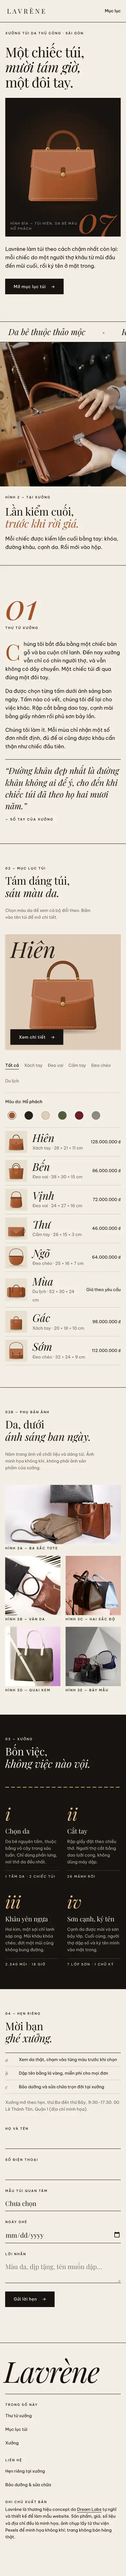
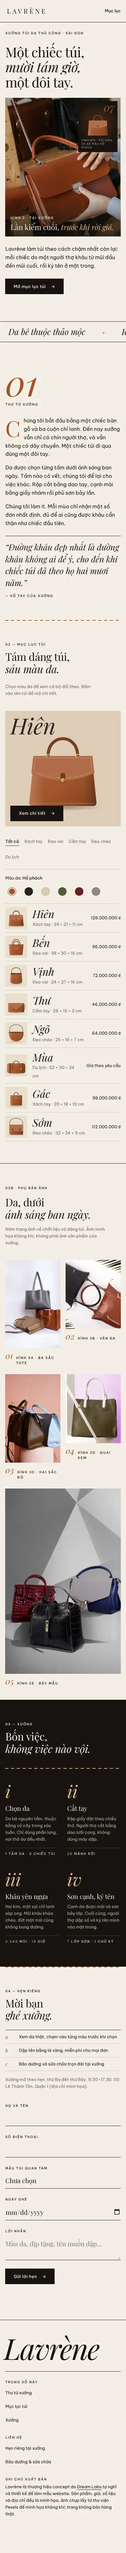
Demo Lavrène: hero rèm lật trang, phụ bản ảnh cuộn ngang, đường khâu tự vẽ
Claude-Session: https://claude.ai/code/session_012QLWn7rvRysGvRwdv6upwG

diff --git a/demos/lux-lavrene.html b/demos/lux-lavrene.html
@@ -43,14 +43,6 @@ input,select,textarea{font:inherit;color:inherit;border-radius:0}
 .qv-x{position:absolute;z-index:3;width:42px;height:42px;display:grid;place-items:center;font-size:26px;line-height:1}
 .toast{position:fixed;left:50%;bottom:26px;z-index:130;transform:translate(-50%,26px);opacity:0;pointer-events:none;transition:opacity 424ms var(--ease),transform 424ms var(--ease);max-width:calc(100vw - 32px);padding:10px 26px;font-size:13px;text-align:center}
 .toast.on{opacity:1;transform:translate(-50%,0)}
-.ph{position:relative;overflow:hidden;margin:0;background:var(--bg2)}
-.ph img{display:block;width:100%;height:100%;object-fit:cover;transition:transform 1796ms var(--ease),filter 1110ms var(--ease)}
-.pe{position:relative;overflow:hidden}.pe>.ph{position:absolute;inset:0}.pe>.ph img{position:absolute;left:0;top:-9%;height:118%}
-.pg-g{display:grid;grid-template-columns:repeat(4,1fr);grid-auto-rows:clamp(160px,19vw,300px);gap:10px}
-.pg-g .ph:first-child{grid-column:span 2;grid-row:span 2}.pg-4 .ph:nth-child(2){grid-column:span 2}
-.pg-g .ph:hover img{transform:scale(1.05)}
-.pg-g figcaption{position:absolute;left:0;right:0;bottom:0;padding:26px 16px 10px;font-size:13px;line-height:1.38;pointer-events:none}
-@media(max-width:700px){.pg-g{grid-template-columns:1fr 1fr;grid-auto-rows:clamp(150px,52vw,260px);gap:6px}.pg-g .ph:first-child{grid-row:span 1}.pg-4 .ph:nth-child(2){grid-column:span 1}.pg-4 .ph:last-child{grid-column:span 2}}
 .back{position:fixed;left:16px;bottom:16px;z-index:60;min-height:42px;padding:0 16px;display:flex;align-items:center;font-size:13px;letter-spacing:.04em}
 .fm{min-height:26px;font-size:13px}
 @media (prefers-reduced-motion:reduce){.js [data-r],.js [data-r=lines] .ln>span{opacity:1!important;transform:none!important;clip-path:none!important;transition:none!important}*,*::before,*::after{animation-duration:.01ms!important;animation-delay:0s!important;animation-iteration-count:1!important;transition-duration:.01ms!important;transition-delay:0s!important;scroll-behavior:auto!important}}
@@ -90,14 +82,27 @@ h2{font-family:var(--fd);font-size:clamp(33px,5.4vw,68px);line-height:1.14;lette
 @keyframes ln{from{transform:translateY(112%)}to{transform:none}}
 .cvb{display:grid;gap:26px;max-width:26em;animation:fd 1.4s .5s var(--ease) both}
 @keyframes fd{from{opacity:0;transform:translateY(16px)}to{opacity:1;transform:none}}
-.cvr{position:relative;background:var(--ink);color:var(--bg);aspect-ratio:1/1.2;overflow:hidden;animation:wp 1.8s var(--ease) both}
+.cvr{position:relative;aspect-ratio:1/1.2;margin:0}
+.cvk{position:absolute;inset:0;overflow:hidden;background:var(--bg2)}
+.kb{position:absolute;inset:-6% 0;display:block}
+.kb img{width:100%;height:100%;object-fit:cover;object-position:50% 62%;animation:kb 3.2s cubic-bezier(.19,1,.22,1) both}
+@keyframes kb{from{transform:scale(1.18)}}
+.cvs{position:absolute;inset:0;display:flex}
+.cvs i{flex:1;margin-right:-1px;background:var(--bg);transform-origin:top;animation:cs 1.5s cubic-bezier(.77,0,.18,1) both;animation-delay:calc(var(--k)*.11s + .2s)}
+.cvs i:nth-child(2n){transform-origin:bottom}
+@keyframes cs{to{transform:scaleY(0)}}
+.cvr figcaption{position:absolute;left:0;right:0;bottom:0;padding:68px 16px 16px;color:#f3eee4;background:linear-gradient(transparent,rgba(23,19,15,.78));display:grid;gap:6px;animation:fd 1.4s 1.3s var(--ease) both}
+.cvr figcaption b{font:400 23px/1.2 var(--fd)}.cvr figcaption em{color:#e6b98d}
+.pe-n{display:none;font-size:13px;line-height:1.5;max-width:27em;opacity:.84}
+.cvc{position:absolute;z-index:2;right:10px;top:10px;width:34%}
+.cvi{position:relative;aspect-ratio:1/1.3;background:var(--ink);color:var(--bg);overflow:hidden;box-shadow:0 26px 42px -26px rgba(23,19,15,.7);animation:wp 1.5s 1.1s var(--ease) both}
 @keyframes wp{from{clip-path:inset(100% 0 0 0)}to{clip-path:inset(0)}}
-.cvp{position:absolute;inset:8% 6% 12%;display:grid;place-items:center}.cvp svg{width:100%;height:100%}
-.cvr figcaption{position:absolute;left:16px;bottom:16px;right:110px;font-size:10px;letter-spacing:.16em;text-transform:uppercase;opacity:.62}
-.cvr .num{position:absolute;right:16px;bottom:0;font:italic 400 110px/1 var(--fd);color:var(--lc);opacity:.9}
-.cvr::before{content:"";position:absolute;inset:0;background:radial-gradient(circle at 50% 46%,rgba(162,84,43,.34),transparent 62%)}
-@media(min-width:900px){.cv{padding-top:42px}.cvg{grid-template-columns:61.8fr 38.2fr;gap:0;align-items:end}.cvl{padding:0 42px 68px 0}.cvr{aspect-ratio:1/1.3;max-height:calc(100svh - 110px);width:100%;justify-self:end}}
-@media(max-width:899px){.cvr{order:2}.cvr figcaption{right:130px}.sw>span{flex-basis:100%}.cvl{display:contents}.cvl .cap{order:0}.cv h1{order:1;margin:0}.cvb{order:3;padding-bottom:42px}}
+.cvi::before{content:"";position:absolute;inset:0;background:radial-gradient(circle at 50% 42%,rgba(162,84,43,.4),transparent 62%)}
+.cvp{position:absolute;inset:20% 8% 26%}.cvp svg{width:100%;height:100%}
+.cvi span{position:absolute;left:10px;right:10px;bottom:8px;font-size:8px;line-height:1.4;letter-spacing:.14em;text-transform:uppercase;opacity:.66}
+.cvi .num{position:absolute;right:8px;top:2px;font:italic 400 33px/1 var(--fd);color:var(--lc)}
+@media(min-width:900px){.cv{padding-top:42px}.cvg{grid-template-columns:55fr 45fr;gap:0;align-items:end}.cvl{padding:0 42px 68px 0}.cvr{aspect-ratio:1/1.3;max-height:calc(100svh - 110px);width:100%;justify-self:end}.cvc{right:auto;top:auto;left:-25%;bottom:42px;width:33%}.cvi span{font-size:10px;left:16px;right:16px;bottom:12px}.cvi .num{font-size:68px;right:12px}.cvr figcaption{padding:110px 26px 26px calc(8% + 26px)}.cvr figcaption b{font-size:clamp(23px,2.1vw,33px)}.pe-n{display:block}}
+@media(max-width:899px){.cvr{order:2}.sw>span{flex-basis:100%}.cvl{display:contents}.cvl .cap{order:0}.cv h1{order:1;margin:0}.cvb{order:3;padding-bottom:42px}}
 .mq{border-block:1px solid var(--ink);overflow:hidden;white-space:nowrap;margin-top:0}
 .mq div{display:inline-block;padding:10px 0;font:italic 26px/1.618 var(--fd);animation:mq 68s linear infinite}
 .mq span{margin:0 26px}.mq span::after{content:"✕";font:400 10px var(--fb);margin-left:52px;vertical-align:middle;color:var(--acc)}
@@ -111,7 +116,6 @@ blockquote{margin:0;font:italic 26px/1.4 var(--fd);border-top:1px solid var(--in
 blockquote cite{display:block;margin-top:16px;font:500 10px var(--fb);letter-spacing:.2em;text-transform:uppercase}
 @media(min-width:900px){.stg{grid-template-columns:1fr 2.618fr 1.618fr;gap:68px}.stt{columns:2;column-gap:42px}.stt p{break-inside:avoid}blockquote{font-size:33px}}
 /* mục lục */
-.ix{border-top:1px solid var(--ink)}
 .ixh{display:flex;justify-content:space-between;align-items:end;gap:26px;flex-wrap:wrap;margin-bottom:42px}
 .ixg{display:grid;gap:26px}
 @media(min-width:900px){.ixg{grid-template-columns:38.2fr 61.8fr;gap:68px;align-items:start}}
@@ -145,18 +149,17 @@ blockquote cite{display:block;margin-top:16px;font:500 10px var(--fb);letter-spa
 /* xưởng */
 .cf{background:var(--ink);color:var(--bg)}
 .cf h2{max-width:11em}
-.stc{display:block;width:100%;height:26px;margin:42px 0;overflow:visible}
-.stc path{fill:none;stroke:#d9b98a;stroke-width:2;stroke-dasharray:10 8;stroke-linecap:round}
-.js .stc{clip-path:inset(0 100% 0 0);transition:clip-path 2.9s var(--ease)}.js .stc.in{clip-path:inset(0 -1% 0 0)}
+.cf .st{--sc:#d9b98a;margin:42px 0}
 .cfg{display:grid;gap:42px 26px;grid-template-columns:1fr 1fr}
 @media(min-width:900px){.cfg{grid-template-columns:repeat(4,1fr);gap:42px}}
 .cfi b{font:italic 400 68px/1 var(--fd);color:#d9b98a;display:block}
 .cfi h3{font:400 26px/1.14 var(--fd);margin:16px 0 10px}
 .cfi p{font-size:13px;opacity:.72}
+.cfi span i{font-style:normal;color:#d9b98a}
 .cfi span{display:block;margin-top:16px;padding-top:10px;border-top:1px solid rgba(243,238,228,.2);font-size:10px;letter-spacing:.2em;text-transform:uppercase}
 @media(max-width:520px){.cfi b{font-size:53px}.cfi h3{font-size:20px}}
 /* hẹn riêng */
-.bk{display:grid;gap:42px}
+.bk{display:grid;gap:42px;position:relative}
 @media(min-width:900px){.bk{grid-template-columns:38.2fr 61.8fr;gap:110px}}
 .pm{margin-top:26px;border-top:1px solid var(--ink)}
 .pm li{display:grid;grid-template-columns:42px 1fr;padding:10px 0;border-bottom:1px solid var(--line);font-size:13px}
@@ -197,22 +200,34 @@ footer{border-top:1px solid var(--ink);padding:42px 0 110px;overflow:hidden}
 .toast{background:var(--ink);color:var(--bg)}
 .back{background:var(--bg);box-shadow:inset 0 0 0 1px var(--ink)}
 /*PH-CSS*/
-.pe{display:grid;grid-template-columns:1fr;border-bottom:1px solid var(--ink)}
-.pe>.ph{position:relative;inset:auto;aspect-ratio:1/1.14;max-height:none}
-.pe>.ph img{filter:sepia(.1) saturate(.86) contrast(1.03)}
-.pe-t{padding:26px max(16px,4.2vw) 42px}
-.pe-cap{display:grid;gap:16px}
-.pe-cap b{font:400 clamp(33px,4.6vw,68px)/1.14 var(--fd);letter-spacing:-.01em}.pe-cap b em{font-style:italic;color:var(--acc)}
-.pe-n{max-width:24em}
-@media(min-width:900px){.pe{grid-template-columns:61.8fr 38.2fr;min-height:calc(100svh - 68px)}.pe>.ph{aspect-ratio:auto;border-right:1px solid var(--ink)}.pe-t{align-self:end;padding:68px 42px}}
-.pg{border-top:1px solid var(--ink)}
-.pg-h{display:flex;justify-content:space-between;align-items:end;gap:26px;flex-wrap:wrap;margin-bottom:42px}.pg-h>p{max-width:22em;font-size:13px;color:var(--mut)}
-.pg-g{gap:16px}
-.pg-g .ph{background:var(--bg2);overflow:visible;display:grid;grid-template-rows:1fr auto}
-.pg-g .ph img{min-height:0;filter:sepia(.08) saturate(.84) contrast(1.02)}
-.pg-g .ph:hover img{transform:none;filter:none}
-.pg-g figcaption{position:static;padding:6px 0 0;background:var(--bg);font-size:10px;letter-spacing:.2em;text-transform:uppercase;font-weight:500}
-.pg-g .ph:first-child img{object-position:50% 70%}
+.st{display:block;height:2px;background:repeating-linear-gradient(90deg,var(--sc,var(--acc)) 0 10px,transparent 10px 18px)}
+.st.v{display:none}
+.sec{position:relative}.sec>.st{position:absolute;top:0;left:max(16px,4.2vw);right:max(16px,4.2vw)}
+.pg{border-top:1px solid var(--ink);position:relative}
+.pgs{position:relative;overflow:hidden;padding:68px 0 42px}
+.pgw{position:absolute;left:0;top:50%;margin-top:-.62em;white-space:nowrap;font:italic 400 min(30vh,24vw)/1.2 var(--fd);color:var(--bg2);pointer-events:none;will-change:transform}
+.pgw span{margin-right:.5em}.pgw span:nth-child(2){color:transparent;-webkit-text-stroke:1px var(--acc)}
+.pgt{position:relative;display:flex;align-items:center;gap:7vw;padding:0 max(16px,4.2vw);overflow-x:auto;scroll-snap-type:x mandatory;scrollbar-width:none}
+.pgt::-webkit-scrollbar{display:none}
+.pgt>*{flex:none;scroll-snap-align:center;margin:0}
+.pgx{position:relative}
+.pgi{display:grid;gap:16px;padding:0 max(16px,4.2vw) 42px}.pgt .pgi{width:min(80vw,36em);padding:0}.pgi>p:last-child{font-size:13px;color:var(--mut);max-width:24em}
+.pk{display:block;height:var(--h,104vw);aspect-ratio:5/8;overflow:hidden;background:var(--bg2)}
+.sq .pk{aspect-ratio:4/5;--h:90vw}
+.pk img{width:124%;max-width:none;margin-left:-12%;height:100%;object-fit:cover;filter:grayscale(1) sepia(.42) contrast(1.04);transition:filter 1110ms var(--ease),scale 1796ms var(--ease)}
+.ph.on img,.ph:hover img{filter:none}
+@media(hover:hover){.ph:hover img{scale:1.05!important}}
+.pgt figcaption{display:flex;gap:10px;align-items:baseline;padding-top:10px;font-size:10px;letter-spacing:.2em;text-transform:uppercase;font-weight:500}
+.pgt figcaption b{font:italic 400 26px/1 var(--fd);color:var(--acc);letter-spacing:0}
+.pgc{position:relative;display:flex;align-items:center;gap:16px;padding:26px max(16px,4.2vw) 0;font-size:10px;letter-spacing:.2em;font-weight:500}
+.pgc b{font:italic 400 26px/1 var(--fd);color:var(--acc);letter-spacing:0;min-width:1.3em}
+.pgl{flex:1;clip-path:inset(0 96% 0 0)}
+@media(min-width:900px){.st.v{display:block;position:absolute;top:0;bottom:0;left:calc((100% - 110px)*.382 + 54px);width:2px;height:auto;background:repeating-linear-gradient(var(--acc) 0 10px,transparent 10px 18px)}
+.pk{--h:68svh}.sq .pk{--h:50svh}.pgt .ph:nth-of-type(2){align-self:flex-start}.pgt .ph:nth-of-type(3){align-self:flex-end}.pgt .ph:nth-of-type(3) .pk{--h:58svh}.pgt .ph:nth-of-type(4) .pk{--h:54svh}
+.hz .pgs{position:sticky;top:68px;height:calc(100svh - 68px);padding:42px 0 26px;display:flex;flex-direction:column}
+.hz .pgx{flex:1;min-height:0}.hz .pgt{height:100%;width:max-content;overflow:visible;padding-right:12vw;will-change:transform}.hz .pgc{padding-left:150px}}
+@media (prefers-reduced-motion:reduce){.pgw,.pgc{display:none}.pgt{display:grid;grid-template-columns:1fr 1fr;gap:26px 16px;overflow:visible;align-items:start}.pgt .ph{align-self:auto!important}.pgt .ph:last-child{grid-column:1/-1}.pk{height:auto!important;width:100%}.pk img{filter:none}}
+@media (prefers-reduced-motion:reduce) and (min-width:900px){.pgt{grid-template-columns:repeat(5,1fr)}.pgt .ph:last-child{grid-column:auto}}
 /*/PH-CSS*/
 </style>
 </head>
@@ -232,15 +247,14 @@ footer{border-top:1px solid var(--ink);padding:42px 0 110px;overflow:hidden}
  <div class="cvl"><p class="cap">Xưởng túi da thủ công · Sài Gòn</p>
   <h1><span class="ln"><span>Một chiếc túi,</span></span><span class="ln"><span><em>mười tám giờ,</em></span></span><span class="ln"><span>một đôi tay.</span></span></h1>
   <div class="cvb"><p>Lavrène làm túi theo cách chậm nhất còn lại: mỗi chiếc do một người thợ khâu từ mũi đầu đến mũi cuối, rồi ký tên ở mặt trong.</p><div><a class="bt" href="#muc-luc">Mở mục lục túi <i>→</i></a></div></div></div>
- <figure class="cvr"><div class="cvp" id="cvp" data-px=".05"></div><figcaption>Hình bìa — Túi Hiên, da bê màu Hổ phách</figcaption><b class="num" aria-hidden="true">07</b></figure>
+ <figure class="cvr"><div class="cvk"><span class="kb" data-px=".05"><img src="../img/photo/tui-xach-6650009.webp" width="1066" height="1600" alt="Đôi tay đặt một chiếc túi da màu nâu bò lên giá gỗ, phía sau là những chiếc cặp da" decoding="async" fetchpriority="high"></span><span class="cvs" aria-hidden="true"><i style="--k:0"></i><i style="--k:1"></i><i style="--k:2"></i><i style="--k:3"></i><i style="--k:4"></i></span></div>
+  <figcaption><span class="cap">Hình 2 · Tại xưởng</span><b>Lần kiểm cuối, <em>trước khi rời giá.</em></b><span class="pe-n">Mỗi chiếc được kiểm lần cuối bằng tay: khóa, đường khâu, cạnh da. Rồi mới vào hộp.</span></figcaption>
+  <div class="cvc" data-px="-.07"><div class="cvi"><div class="cvp" id="cvp"></div><span>Hình bìa · Túi Hiên, da bê màu Hổ phách</span><b class="num" aria-hidden="true">07</b></div></div></figure>
 </div>
 <div class="mq" aria-hidden="true" style="margin-top:42px"><div><span>Da bê thuộc thảo mộc</span><span>Khâu yên ngựa hai kim</span><span>Sơn cạnh bảy lớp</span><span>Đánh số từng chiếc</span><span>Da bê thuộc thảo mộc</span><span>Khâu yên ngựa hai kim</span><span>Sơn cạnh bảy lớp</span><span>Đánh số từng chiếc</span></div></div>
 </section>
 
 
-<!--PH-ED-->
-<section class="pe" aria-label="Ảnh tại xưởng Lavrène"><figure class="ph" data-r="mask"><img src="../img/photo/tui-xach-6650009.webp" width="1066" height="1600" alt="Đôi tay đặt một chiếc túi da màu nâu bò lên giá gỗ, phía sau là những chiếc cặp da" decoding="async" loading="lazy" data-px=".12"></figure><div class="pe-t w"><div class="pe-cap" data-r><span class="cap">Hình 2 — Tại xưởng</span><b>Lần kiểm cuối,<br><em>trước khi rời giá.</em></b><span class="pe-n">Mỗi chiếc được kiểm lần cuối bằng tay: khóa, đường khâu, cạnh da. Rồi mới vào hộp.</span></div></div></section>
-<!--/PH-ED-->
 
 <section class="sec" id="thu"><div class="w stg">
  <div class="stn" data-r><b>01</b><span class="cap">Thư từ xưởng</span></div>
@@ -250,7 +264,7 @@ footer{border-top:1px solid var(--ink);padding:42px 0 110px;overflow:hidden}
  <blockquote data-r="wipe" style="--i:2">“Đường khâu đẹp nhất là đường khâu không ai để ý, cho đến khi chiếc túi đã theo họ hai mươi năm.”<cite>— Sổ tay của xưởng</cite></blockquote>
 </div></section>
 
-<section class="sec ix" id="muc-luc"><div class="w">
+<section class="sec ix" id="muc-luc"><i class="st" data-st></i><div class="w">
  <div class="ixh"><div><p class="cap" data-r>02 — Mục lục túi</p><h2 data-r="lines" style="margin-top:10px"><span class="ln"><span>Tám dáng túi,</span></span><span class="ln" style="--j:1"><span><em>sáu màu da.</em></span></span></h2></div>
   <p data-r style="max-width:22em;font-size:13px;color:var(--mut)">Chọn màu da để xem cả bộ đổi theo. Bấm vào tên túi để mở chi tiết.</p></div>
  <div class="ixg">
@@ -264,22 +278,25 @@ footer{border-top:1px solid var(--ink);padding:42px 0 110px;overflow:hidden}
 
 
 <!--PH-LB-->
-<section class="sec pg" id="lookbook"><div class="w"><div class="pg-h"><div><p class="cap" data-r>02b — Phụ bản ảnh</p><h2 data-r="lines" style="margin-top:10px"><span class="ln"><span>Da, dưới</span></span><span class="ln" style="--j:1"><span><em>ánh sáng ban ngày.</em></span></span></h2></div><p data-r>Năm trang ảnh về chất liệu và dáng túi. Ảnh minh họa không khí, không phải ảnh sản phẩm của xưởng.</p></div><div class="pg-g pg-5"><figure class="ph" data-r="mask" style="--i:0"><img src="../img/photo/tui-xach-22434775.webp" width="1132" height="1600" alt="Ba chiếc túi tote da vân cá sấu màu xám, be và nâu đặt chồng lên nhau trên nền trắng" decoding="async" loading="lazy"><figcaption>Hình 3a — Ba sắc tote</figcaption></figure><figure class="ph" data-r="mask" style="--i:1"><img src="../img/photo/tui-xach-27046146.webp" width="1600" height="1600" alt="Hai chiếc túi da vân cá sấu màu đen và nâu đỏ nằm trên nền trắng cạnh lá cọ" decoding="async" loading="lazy"><figcaption>Hình 3b — Vân da</figcaption></figure><figure class="ph" data-r="mask" style="--i:2"><img src="../img/photo/tui-xach-23223837.webp" width="1132" height="1600" alt="Túi da xanh rêu và xanh da trời đặt trên bục tròn trước tường hồng" decoding="async" loading="lazy"><figcaption>Hình 3c — Hai sắc độ</figcaption></figure><figure class="ph" data-r="mask" style="--i:3"><img src="../img/sm-web-ph-tui-xach-27100522.webp" width="1600" height="1600" alt="Túi tote da hạt màu xanh rêu với quai và dây đeo màu kem" decoding="async" loading="lazy"><figcaption>Hình 3d — Quai kem</figcaption></figure><figure class="ph" data-r="mask" style="--i:4"><img src="../img/sm-web-ph-tui-xach-7953286.webp" width="1067" height="1600" alt="Ba chiếc túi đỏ rượu, đen và xanh navy bày trên khối trắng giữa nền xám" decoding="async" loading="lazy"><figcaption>Hình 3e — Bày mẫu</figcaption></figure></div></div></section>
+<section class="pg" id="lookbook" aria-label="Phụ bản ảnh"><div class="pgs"><div class="pgi"><p class="cap" data-r>02b · Phụ bản ảnh</p><h2 data-r="lines"><span class="ln"><span>Da, dưới</span></span><span class="ln" style="--j:1"><span><em>ánh sáng ban ngày.</em></span></span></h2><p data-r>Năm trang ảnh về chất liệu và dáng túi. Ảnh minh họa không khí, không phải ảnh sản phẩm của xưởng.</p></div>
+<div class="pgx"><div class="pgw" aria-hidden="true"><span>Lavrène</span><span>da thuộc thảo mộc</span><span>khâu tay hai kim</span></div>
+<div class="pgt" id="pgt"><figure class="ph"><span class="pk"><img src="../img/photo/tui-xach-22434775.webp" width="1132" height="1600" alt="Ba chiếc túi tote da vân cá sấu màu xám, be và nâu đặt chồng lên nhau trên nền trắng" decoding="async" loading="lazy"></span><figcaption><b>01</b>Hình 3a · Ba sắc tote</figcaption></figure><figure class="ph sq"><span class="pk"><img src="../img/photo/tui-xach-27046146.webp" width="1600" height="1600" alt="Hai chiếc túi da vân cá sấu màu đen và nâu đỏ nằm trên nền trắng cạnh lá cọ" decoding="async" loading="lazy"></span><figcaption><b>02</b>Hình 3b · Vân da</figcaption></figure><figure class="ph"><span class="pk"><img src="../img/photo/tui-xach-23223837.webp" width="1132" height="1600" alt="Túi da xanh rêu và xanh da trời đặt trên bục tròn trước tường hồng" decoding="async" loading="lazy"></span><figcaption><b>03</b>Hình 3c · Hai sắc độ</figcaption></figure><figure class="ph sq"><span class="pk"><img src="../img/sm-web-ph-tui-xach-27100522.webp" width="1600" height="1600" alt="Túi tote da hạt màu xanh rêu với quai và dây đeo màu kem" decoding="async" loading="lazy"></span><figcaption><b>04</b>Hình 3d · Quai kem</figcaption></figure><figure class="ph"><span class="pk"><img src="../img/sm-web-ph-tui-xach-7953286.webp" width="1067" height="1600" alt="Ba chiếc túi đỏ rượu, đen và xanh navy bày trên khối trắng giữa nền xám" decoding="async" loading="lazy"></span><figcaption><b>05</b>Hình 3e · Bày mẫu</figcaption></figure></div></div>
+<p class="pgc" aria-hidden="true"><b id="pgn">01</b>/ 05<i class="st pgl"></i>Lật trang</p></div></section>
 <!--/PH-LB-->
 
 <section class="sec cf" id="xuong"><div class="w">
  <p class="cap" data-r>03 — Xưởng</p>
  <h2 data-r="lines" style="margin-top:10px"><span class="ln"><span>Bốn việc,</span></span><span class="ln" style="--j:1"><span><em>không việc nào vội.</em></span></span></h2>
- <svg class="stc" data-r="clip" viewBox="0 0 1200 26" preserveAspectRatio="none" aria-hidden="true"><path d="M4 13H1196" vector-effect="non-scaling-stroke"/></svg>
+ <i class="st" data-st></i>
  <div class="cfg">
   <div class="cfi" data-r><b>i</b><h3>Chọn da</h3><p>Da bê nguyên tấm, thuộc bằng vỏ cây trong sáu tuần. Chỉ dùng phần lưng, nơi thớ da đều nhất.</p><span>1 tấm da · 2 chiếc túi</span></div>
-  <div class="cfi" data-r style="--i:1"><b>ii</b><h3>Cắt tay</h3><p>Rập giấy đặt theo chiều thớ. Người thợ cắt bằng dao lưỡi cong, không dùng máy dập.</p><span>26 mảnh rời</span></div>
-  <div class="cfi" data-r style="--i:2"><b>iii</b><h3>Khâu yên ngựa</h3><p>Hai kim, một sợi chỉ lanh sáp ong. Mũi khâu khóa chéo, đứt một mũi cũng không bung đường.</p><span>2.340 mũi · 18 giờ</span></div>
-  <div class="cfi" data-r style="--i:3"><b>iv</b><h3>Sơn cạnh, ký tên</h3><p>Cạnh da được mài và sơn bảy lớp. Cuối cùng, người thợ dập số và ký tên mình vào mặt trong.</p><span>7 lớp sơn · 1 chữ ký</span></div>
+  <div class="cfi" data-r style="--i:1"><b>ii</b><h3>Cắt tay</h3><p>Rập giấy đặt theo chiều thớ. Người thợ cắt bằng dao lưỡi cong, không dùng máy dập.</p><span><i data-ct="26">26</i> mảnh rời</span></div>
+  <div class="cfi" data-r style="--i:2"><b>iii</b><h3>Khâu yên ngựa</h3><p>Hai kim, một sợi chỉ lanh sáp ong. Mũi khâu khóa chéo, đứt một mũi cũng không bung đường.</p><span><i data-ct="2340">2.340</i> mũi · <i data-ct="18">18</i> giờ</span></div>
+  <div class="cfi" data-r style="--i:3"><b>iv</b><h3>Sơn cạnh, ký tên</h3><p>Cạnh da được mài và sơn bảy lớp. Cuối cùng, người thợ dập số và ký tên mình vào mặt trong.</p><span><i data-ct="7">7</i> lớp sơn · 1 chữ ký</span></div>
  </div>
 </div></section>
 
-<section class="sec" id="hen"><div class="w bk">
+<section class="sec" id="hen"><i class="st" data-st></i><div class="w bk"><i class="st v" data-st="v"></i>
  <div><p class="cap" data-r>04 — Hẹn riêng</p>
   <h2 data-r="lines" style="margin-top:10px"><span class="ln"><span>Mời bạn</span></span><span class="ln" style="--j:1"><span><em>ghé xưởng.</em></span></span></h2>
   <ul class="pm" data-r><li><b>a</b>Xem da thật, chạm vào từng màu trước khi chọn</li><li><b>b</b>Dập tên bằng lá vàng, miễn phí cho mọi đơn</li><li><b>c</b>Bảo dưỡng và sửa chữa trọn đời tại xưởng</li></ul>
@@ -307,6 +324,8 @@ footer{border-top:1px solid var(--ink);padding:42px 0 110px;overflow:hidden}
 <a class="back" href="../index.html" target="_top">← Dream Labs</a>
 
 <script src="../vendor/lenis.min.js"></script>
+<script src="../vendor/gsap.min.js"></script>
+<script src="../vendor/ScrollTrigger.min.js"></script>
 <script>
 (()=>{
 const D=document,H=D.documentElement,$=(s,r=D)=>r.querySelector(s),$$=(s,r=D)=>[...r.querySelectorAll(s)];
@@ -406,6 +425,27 @@ gr.addEventListener('click',e=>{const r=e.target.closest('.rw');r&&open(+r.datas
 $('#pvb').addEventListener('click',()=>open(ci));
 $('#fs').insertAdjacentHTML('beforeend',B.map(b=>`<option>${b.n}</option>`).join(''));
 scan();
+/* số đếm */
+if(!RM&&io){const co=new IntersectionObserver(es=>es.forEach(e=>{if(!e.isIntersecting)return;co.unobserve(e.target);const el=e.target,n=+el.dataset.ct,t0=performance.now();(function f(t){const p=Math.min(1,(t-t0)/1800);el.textContent=(p<1?Math.round(n*(1-Math.pow(2,-10*p))):n).toString().replace(/\B(?=(\d{3})+$)/g,'.');p<1&&requestAnimationFrame(f)})(t0)}),{threshold:.6});$$('[data-ct]').forEach(e=>co.observe(e))}
+/* phụ bản ảnh: lật ngang */
+const lb=$('#lookbook'),tr=$('#pgt'),figs=$$('.ph',tr),pgw=$('.pgw'),pgi=$('.pgi'),pgl=$('.pgl');let hz=0,pc=-1,CX=[];
+const meas=()=>{CX=figs.map(f=>f.offsetLeft+f.offsetWidth/2)};
+const upd=(x,d)=>{const c=x+innerWidth*(.3+.4*Math.min(1,x/d));let b=0,m=1e9;CX.forEach((v,i)=>{const q=Math.abs(v-c);if(q<m){m=q;b=i}});if(b!==pc){pc=b;$('#pgn').textContent=no(b);figs.forEach((f,j)=>f.classList.toggle('on',j===b))}
+ pgl.style.clipPath='inset(0 '+(96-Math.min(1,x/d)*96).toFixed(1)+'% 0 0)'};
+const nat=()=>{if(hz||RM)return;const d=tr.scrollWidth-tr.clientWidth||1,x=tr.scrollLeft;upd(x,d);pgw.style.transform='translate3d('+((pgw.offsetWidth-innerWidth)*(x/d-1)).toFixed(1)+'px,0,0)'};
+tr.addEventListener('scroll',nat,{passive:true});addEventListener('resize',()=>{meas();nat()});meas();nat();
+/* GSAP: đường khâu tự vẽ, cảnh ghim cuộn ngang */
+const G=window.gsap,ST=window.ScrollTrigger;
+if(G&&ST&&!RM){G.registerPlugin(ST);lenis&&lenis.on('scroll',ST.update);
+ $$('[data-st]').forEach(el=>{const v=el.dataset.st;G.fromTo(el,{clipPath:v?'inset(0 0 100% 0)':'inset(0 100% 0 0)'},{clipPath:'inset(0 0 0% 0)',ease:'none',scrollTrigger:{trigger:el,start:v?'top 80%':'top 94%',end:v?'bottom 70%':'top 50%',scrub:1}})});
+ if(FINE){const c=$('.cvi'),qx=G.quickTo(c,'x',{duration:1.2,ease:'power3'}),qy=G.quickTo(c,'y',{duration:1.2,ease:'power3'});$('.cv').addEventListener('mousemove',e=>{qx((e.clientX/innerWidth-.5)*-26);qy((e.clientY/innerHeight-.5)*-16)},{passive:true})}
+ G.matchMedia().add('(min-width:900px)',()=>{hz=1;lb.classList.add('hz');tr.prepend(pgi);tr.scrollLeft=0;pgw.style.transform='';let d=1,wd=0;
+  const set=()=>{d=tr.offsetWidth-innerWidth;wd=pgw.offsetWidth-innerWidth;lb.style.height=$('.pgs').offsetHeight+Math.min(d,innerHeight*2.2)+'px';meas()};
+  set();ST.addEventListener('refreshInit',set);
+  G.timeline({defaults:{ease:'none'},onUpdate:()=>upd(-G.getProperty(tr,'x'),d),scrollTrigger:{trigger:lb,start:'top 68',end:'bottom bottom',scrub:.9,invalidateOnRefresh:true}})
+   .to(tr,{x:()=>-d},0).fromTo(pgw,{x:()=>-wd},{x:0},0).fromTo($$('img',tr),{xPercent:-8},{xPercent:8},0);
+  return()=>{hz=0;lb.classList.remove('hz');tr.parentNode.before(pgi);lb.style.height='';ST.removeEventListener('refreshInit',set);meas();nat()}});
+ addEventListener('load',()=>ST.refresh());D.fonts&&D.fonts.ready.then(()=>ST.refresh())}
 })();
 </script>
 </body>
